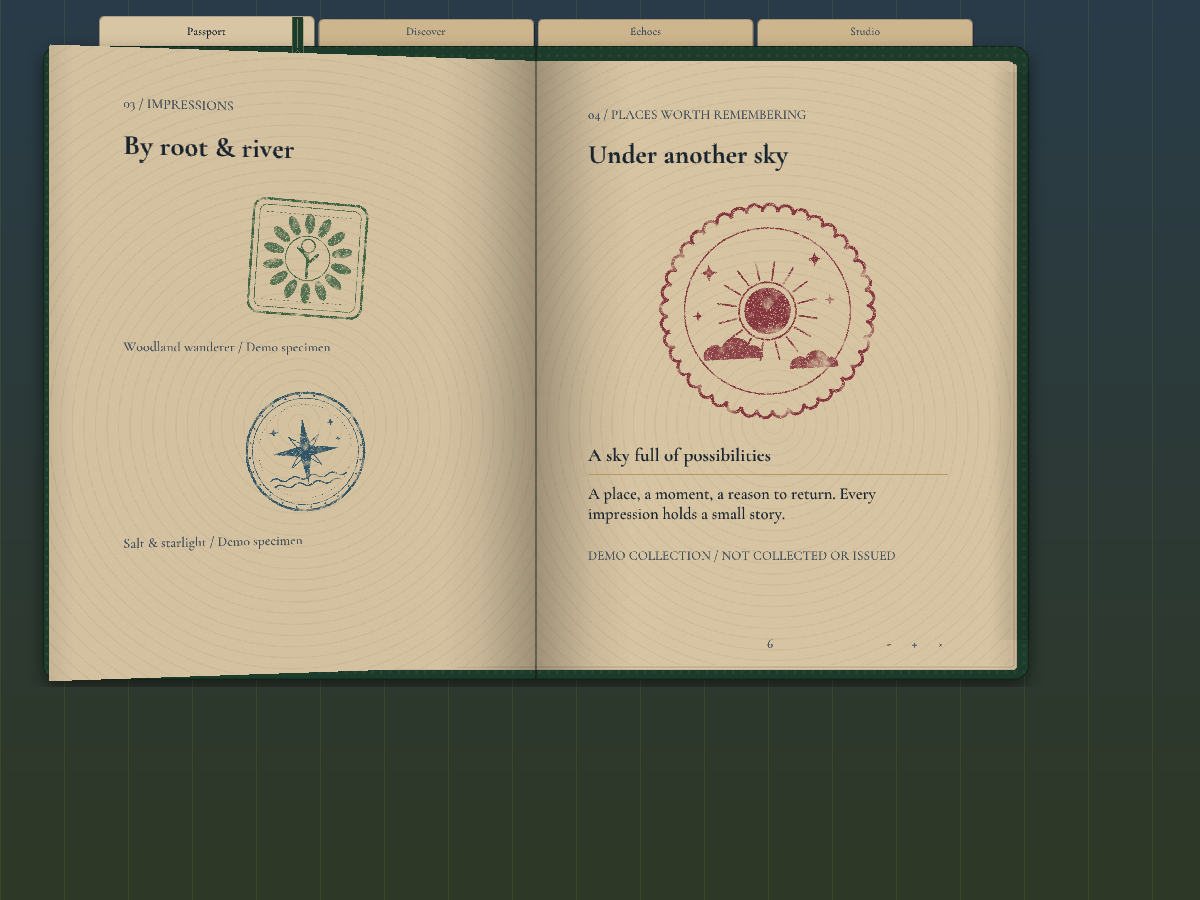
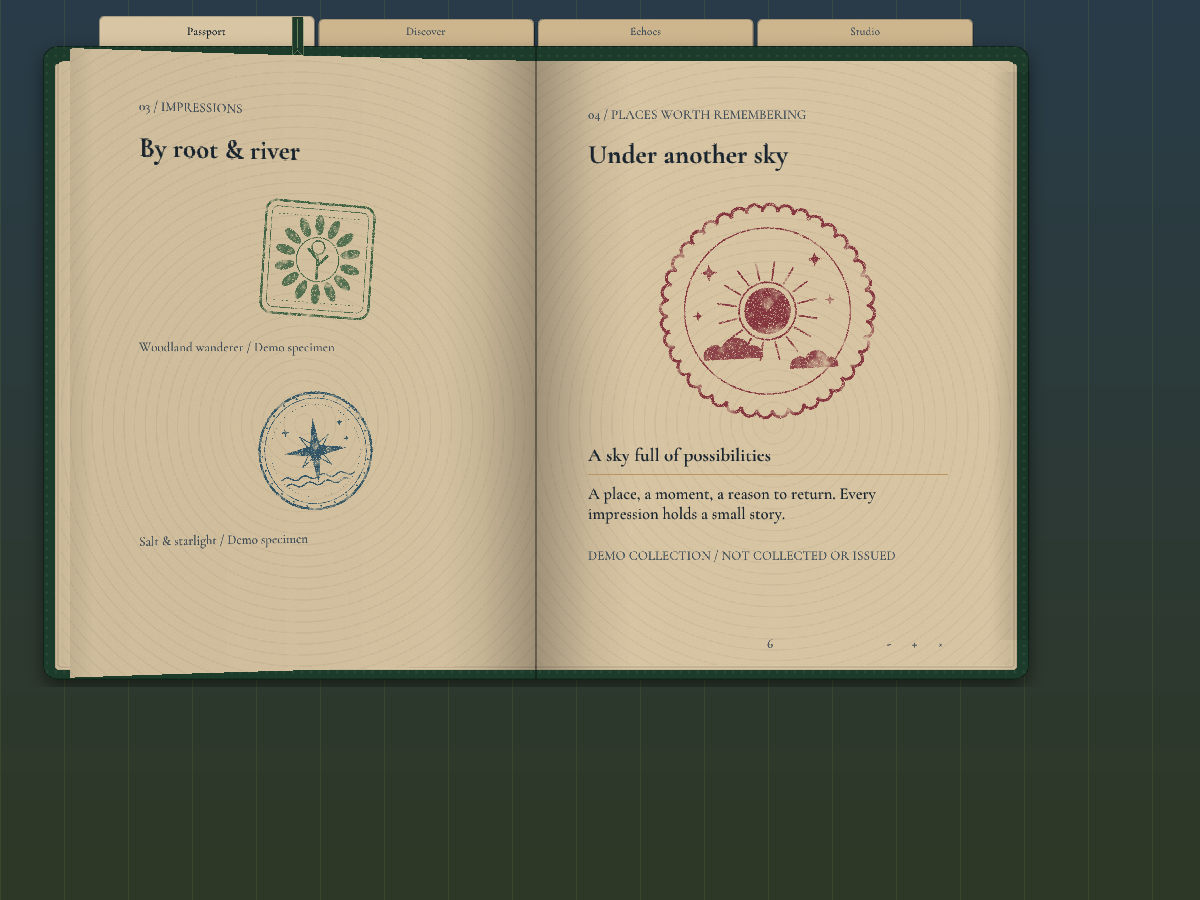
feat(ui): curl turning pages and keep their content in place
A turning page now bends into an arc as it turns, its outer edge trailing the motion, with light varying across the curve. Large page art and rules are drawn in strips while turning so they bend with the paper. The turning page now lays out with the same scrollbar reservation as a resting page, so its content no longer shifts when a turn starts or lands.

diff --git a/src/Wanderveil/UI/BookShell.cs b/src/Wanderveil/UI/BookShell.cs
@@ -186,6 +186,8 @@ internal sealed class BookShell(IBookAssets assets, PassportPreview profile, IRe
         {
             var first = turn.Base;
             var angle = MathF.PI * BookShellMotion.Ease(turn.Progress);
+            // Paper curls as it turns: its outer edge trails the motion, most while it stands upright.
+            var bend = -0.9f * MathF.Sin(angle) * (turn.Forward ? 1f : -1f);
             var book = layout.Book;
             // A leaf is the paper alone (plate y 66-958); the board stays where it is.
             var faceHeight = book.Size.Y * 892f / 1024f;
@@ -199,7 +201,7 @@ internal sealed class BookShell(IBookAssets assets, PassportPreview profile, IRe
                 var hinge = new Vector2(book.Position.X + book.Size.X / 2, center);
                 var back = angle > MathF.PI / 2;
                 var face = new UiRect(new Vector2(back ? hinge.X - leafWidth : hinge.X, center - faceHeight / 2), new Vector2(leafWidth, faceHeight));
-                var leaf = new LeafProjection(face, hinge, leafWidth, faceHeight, angle, 1);
+                var leaf = new LeafProjection(face, hinge, leafWidth, faceHeight, angle, 1, bend, 6.5f);
                 TurningLeaf(back ? first + 2 : first + 1, back ? layout.LeftPage : layout.RightPage, face, leaf, back, 0.5f, back ? 66f / 1536f : 1470f / 1536f, 1f, true, !back);
             }
             else
@@ -211,7 +213,7 @@ internal sealed class BookShell(IBookAssets assets, PassportPreview profile, IRe
                 var leafWidth = book.Size.X * 702f / 768f;
                 var hinge = new Vector2(book.Position.X + (even ? book.Size.X * 66f / 768f : 0f), center);
                 var face = new UiRect(new Vector2(hinge.X, center - faceHeight / 2), new Vector2(leafWidth, faceHeight));
-                var leaf = new LeafProjection(face, hinge, leafWidth, faceHeight, angle, 1);
+                var leaf = new LeafProjection(face, hinge, leafWidth, faceHeight, angle, 1, bend, 6.5f);
                 var fade = angle <= MathF.PI / 2 ? 1f : MathF.Max(0f, 1f - (angle - MathF.PI / 2) / (MathF.PI / 3));
                 var region = BookShellLayout.Create(bounds, context, first).LeftPage;
                 TurningLeaf(first, region, face, leaf, false, even ? 66f / 1536f : 0.5f, even ? 0.5f : 1470f / 1536f, fade, angle <= MathF.PI / 2, false);
@@ -221,7 +223,9 @@ internal sealed class BookShell(IBookAssets assets, PassportPreview profile, IRe
         void TurningLeaf(int index, UiRect region, UiRect face, LeafProjection leaf, bool back, float uvHinge, float uvOuter, float alpha, bool content, bool rightSide)
         {
             ImGui.SetCursorScreenPos(region.Position);
+            // The same padding and scrollbar reservation as a resting page, so content lays out identically.
             ImGui.PushStyleVar(ImGuiStyleVar.WindowPadding, Vector2.Zero);
+            ImGui.PushStyleVar(ImGuiStyleVar.ScrollbarSize, 5 * context.Scale);
             try
             {
                 var visible = ImGui.BeginChild("Turning leaf", region.Size, false, ImGuiWindowFlags.NoInputs | ImGuiWindowFlags.NoBackground | ImGuiWindowFlags.NoScrollbar | ImGuiWindowFlags.NoScrollWithMouse | ImGuiWindowFlags.NoSavedSettings);
@@ -236,14 +240,19 @@ internal sealed class BookShell(IBookAssets assets, PassportPreview profile, IRe
                     if (leaf.Angle <= MathF.PI / 2) list.AddRectFilledMultiColor(new Vector2(leaf.Hinge.X, face.Position.Y), new Vector2(leaf.Hinge.X + reach, face.Max.Y), dark, clear, clear, dark);
                     else list.AddRectFilledMultiColor(new Vector2(leaf.Hinge.X - reach, face.Position.Y), new Vector2(leaf.Hinge.X, face.Max.Y), clear, dark, dark, clear);
                     if (assets.TryGet(BookAsset.Open, out var open, layout.Book.Size.X))
-                        leaf.Leaf(list, open.Texture, new Vector2(uvHinge, 66f / 1024f), new Vector2(uvOuter, 958f / 1024f), LeafProjection.Tint(Vector4.One with { W = alpha }, leaf.Light));
+                        leaf.Leaf(list, open.Texture, new Vector2(uvHinge, 66f / 1024f), new Vector2(uvOuter, 958f / 1024f), Vector4.One with { W = alpha });
                     var start = list.VtxBuffer.Size;
                     if (content && index < documentPages.Count)
                     {
                         var entry = documentPages[index];
-                        if (entry.Kind == PassportPageKind.NationBanner) Banner(index, rightSide);
+                        BookSurface.Strips = 16;
+                        try { if (entry.Kind == PassportPageKind.NationBanner) Banner(index, rightSide); }
+                        finally { BookSurface.Strips = 1; }
                         ImGui.SetCursorScreenPos(region.Position);
-                        Contents(entry, Printed(Fit(entry)));
+                        // Large art is drawn in strips so it bends with the curled paper.
+                        BookSurface.Strips = 16;
+                        try { Contents(entry, Printed(Fit(entry))); }
+                        finally { BookSurface.Strips = 1; }
                     }
                     leaf.Warp(list, start, face, back, alpha);
                     var viewport = ImGui.GetMainViewport();
@@ -251,7 +260,7 @@ internal sealed class BookShell(IBookAssets assets, PassportPreview profile, IRe
                 }
                 finally { ImGui.EndChild(); }
             }
-            finally { ImGui.PopStyleVar(); }
+            finally { ImGui.PopStyleVar(2); }
         }
 
         void Folio(int index, bool right)
@@ -401,7 +410,7 @@ internal sealed class BookShell(IBookAssets assets, PassportPreview profile, IRe
                 // The cover's inside is the first left page; it lands exactly where the open spread draws it.
                 var pageHeight = moved.Size.Y * 936f / 1024f;
                 var leaf = new LeafProjection(new UiRect(new Vector2(hinge.X, hinge.Y - pageHeight / 2), new Vector2(leafWidth, pageHeight)), hinge, leafWidth, pageHeight, angle, 1);
-                leaf.Leaf(list, open.Texture, new Vector2(768f / 1536f, 44f / 1024f), new Vector2(40f / 1536f, 980f / 1024f), LeafProjection.Tint(Vector4.One, leaf.Light));
+                leaf.Leaf(list, open.Texture, new Vector2(768f / 1536f, 44f / 1024f), new Vector2(40f / 1536f, 980f / 1024f), Vector4.One);
             }
             else
             {

diff --git a/src/Wanderveil/UI/Components/LeafProjection.cs b/src/Wanderveil/UI/Components/LeafProjection.cs
@@ -5,24 +5,40 @@ using Wanderveil.UI.Primitives;
 
 namespace Wanderveil.UI.Components;
 
-// A flat leaf (the cover, or a page) rotating about a vertical hinge, drawn with perspective.
+// A leaf (the cover, or a page) rotating about a vertical hinge, drawn with perspective.
 // Source is the leaf's flat rectangle; its hinge-side edge stays on Hinge. Angle 0 lies flat on the
 // Direction side (+1: extends right of the hinge); pi lies flat on the other side, showing its back.
+// Bend curls a paper leaf: the surface direction changes by Bend radians from hinge to outer edge
+// (negative lags behind a turn that increases the angle). A stiff cover uses 0.
+// Depth is the camera distance in leaf heights; a curled page needs more so its bulge does not balloon.
 // Everything is drawn as textured quads, so artwork and lettering turn together.
-internal readonly record struct LeafProjection(UiRect Source, Vector2 Hinge, float Width, float Height, float Angle, int Direction)
+internal readonly record struct LeafProjection(UiRect Source, Vector2 Hinge, float Width, float Height, float Angle, int Direction, float Bend = 0f, float Depth = 3.6f)
 {
     internal bool ShowsBack => Angle > MathF.PI / 2;
 
     // Light falls off as the leaf turns edge-on, on either face.
-    internal float Light => 0.58f + 0.42f * MathF.Abs(MathF.Cos(Angle));
+    internal float Light => LightAt(0.5f);
+
+    // On a curled leaf each part faces the light differently.
+    internal float LightAt(float u) => 0.58f + 0.42f * MathF.Abs(MathF.Cos(Angle + Bend * u));
 
     // u: 0 at the hinge to 1 at the outer edge; v: 0 top to 1 bottom.
     internal Vector2 Project(float u, float v)
     {
         // Camera distance in leaf heights: far enough that the lifted leaf grows only a little.
-        var depth = Height * 3.6f;
-        var x = u * Width * MathF.Cos(Angle);
-        var z = u * Width * MathF.Sin(Angle);
+        var depth = Height * Depth;
+        float x, z;
+        if (MathF.Abs(Bend) < 1e-4f)
+        {
+            x = u * Width * MathF.Cos(Angle);
+            z = u * Width * MathF.Sin(Angle);
+        }
+        else
+        {
+            // The surface direction turns linearly along the leaf, so the leaf is a circular arc.
+            x = Width * (MathF.Sin(Angle + Bend * u) - MathF.Sin(Angle)) / Bend;
+            z = Width * (MathF.Cos(Angle) - MathF.Cos(Angle + Bend * u)) / Bend;
+        }
         var scale = depth / MathF.Max(depth * 0.2f, depth - z);
         return new Vector2(Hinge.X + Direction * x * scale, Hinge.Y + (v - 0.5f) * Height * scale);
     }
@@ -37,7 +53,7 @@ internal readonly record struct LeafProjection(UiRect Source, Vector2 Hinge, flo
 
     // Draws texture region uvHinge..uvOuter across the whole leaf in vertical strips (affine quads
     // bend perspective, so strips keep the distortion invisible).
-    internal void Leaf(ImDrawListPtr list, ImTextureID texture, Vector2 uvHinge, Vector2 uvOuter, uint color, int strips = 16)
+    internal void Leaf(ImDrawListPtr list, ImTextureID texture, Vector2 uvHinge, Vector2 uvOuter, Vector4 color, int strips = 24)
     {
         for (var index = 0; index < strips; index++)
         {
@@ -46,7 +62,7 @@ internal readonly record struct LeafProjection(UiRect Source, Vector2 Hinge, flo
             var x0 = uvHinge.X + (uvOuter.X - uvHinge.X) * u0;
             var x1 = uvHinge.X + (uvOuter.X - uvHinge.X) * u1;
             list.AddImageQuad(texture, Project(u0, 0), Project(u1, 0), Project(u1, 1), Project(u0, 1),
-                new Vector2(x0, uvHinge.Y), new Vector2(x1, uvHinge.Y), new Vector2(x1, uvOuter.Y), new Vector2(x0, uvOuter.Y), color);
+                new Vector2(x0, uvHinge.Y), new Vector2(x1, uvHinge.Y), new Vector2(x1, uvOuter.Y), new Vector2(x0, uvOuter.Y), Tint(color, LightAt((u0 + u1) / 2)));
         }
     }
 
@@ -99,7 +115,7 @@ internal readonly record struct LeafProjection(UiRect Source, Vector2 Hinge, flo
             ref var vertex = ref vertices.Ref(index);
             var u = back ? (flat.Max.X - vertex.Pos.X) / flat.Size.X : (vertex.Pos.X - flat.Position.X) / flat.Size.X;
             vertex.Pos = Project(u, (vertex.Pos.Y - flat.Position.Y) / flat.Size.Y);
-            vertex.Col = Shade(vertex.Col, Light, alpha);
+            vertex.Col = Shade(vertex.Col, LightAt(Math.Clamp(u, 0f, 1f)), alpha);
         }
     }
 

diff --git a/src/Wanderveil/UI/Components/BookSurface.cs b/src/Wanderveil/UI/Components/BookSurface.cs
@@ -12,6 +12,38 @@ internal static class BookSurface
 {
     internal static float ContentWidth(float width, bool spread) => width * (spread ? 0.35f : 0.70f);
 
+    // While a page turns, large page art is drawn in this many vertical strips so it bends with the
+    // curled leaf (text glyphs are already small). Set only around a turning leaf's content; UI thread.
+    internal static int Strips { get; set; } = 1;
+
+    internal static void Image(ImDrawListPtr list, ImTextureID texture, Vector2 min, Vector2 max, Vector2? uv0 = null, Vector2? uv1 = null)
+    {
+        var a = uv0 ?? Vector2.Zero;
+        var b = uv1 ?? Vector2.One;
+        if (Strips <= 1) { list.AddImage(texture, min, max, a, b); return; }
+        for (var index = 0; index < Strips; index++)
+        {
+            var t0 = index / (float)Strips;
+            var t1 = (index + 1) / (float)Strips;
+            list.AddImage(texture, new Vector2(min.X + (max.X - min.X) * t0, min.Y), new Vector2(min.X + (max.X - min.X) * t1, max.Y),
+                new Vector2(a.X + (b.X - a.X) * t0, a.Y), new Vector2(a.X + (b.X - a.X) * t1, b.Y));
+        }
+    }
+
+    internal static void Rect(ImDrawListPtr list, Vector2 min, Vector2 max, uint color)
+    {
+        if (Strips <= 1) { list.AddRectFilled(min, max, color); return; }
+        for (var index = 0; index < Strips; index++)
+            list.AddRectFilled(new Vector2(min.X + (max.X - min.X) * index / Strips, min.Y), new Vector2(min.X + (max.X - min.X) * (index + 1) / Strips, max.Y), color);
+    }
+
+    internal static void Line(ImDrawListPtr list, Vector2 from, Vector2 to, uint color, float thickness = 1f)
+    {
+        var segments = Math.Max(1, Strips);
+        for (var index = 0; index < segments; index++)
+            list.AddLine(Vector2.Lerp(from, to, index / (float)segments), Vector2.Lerp(from, to, (index + 1) / (float)segments), color, thickness);
+    }
+
     // The paper of one page in the open-book plate (pages at x 66-768 and 768-1470, y 66-958 of 1536 x 1024).
     internal static UiRect Paper(UiRect book, BookFace face, bool rightOfSpread = false)
     {
@@ -103,8 +135,8 @@ internal static class BookSurface
         var max = min + size;
         var drawList = ImGui.GetWindowDrawList();
         var mount = new Vector2(4f * context.Scale);
-        drawList.AddRectFilled(min - mount, max + mount, ImGui.GetColorU32(UiTheme.Paper));
-        drawList.AddImage(image.Texture, min, max);
+        Rect(drawList, min - mount, max + mount, ImGui.GetColorU32(UiTheme.Paper));
+        Image(drawList, image.Texture, min, max);
     }
 
     // The aspect-preserving placement Illustration draws, without drawing it.
@@ -120,7 +152,7 @@ internal static class BookSurface
         var aspect = image.Width / (float)image.Height;
         var size = new Vector2(MathF.Min(bounds.Size.X, bounds.Size.Y * aspect), MathF.Min(bounds.Size.Y, bounds.Size.X / aspect));
         var fitted = new UiRect(bounds.Position + (bounds.Size - size) / 2, size);
-        ImGui.GetWindowDrawList().AddImage(image.Texture, fitted.Position, fitted.Max);
+        Image(ImGui.GetWindowDrawList(), image.Texture, fitted.Position, fitted.Max);
         return fitted;
     }
 
@@ -133,7 +165,7 @@ internal static class BookSurface
         var aspect = (region.Y - region.X) * image.Width / image.Height;
         var size = new Vector2(MathF.Min(bounds.Size.X, bounds.Size.Y * aspect), MathF.Min(bounds.Size.Y, bounds.Size.X / aspect));
         var min = bounds.Position + ((bounds.Size - size) / 2f);
-        ImGui.GetWindowDrawList().AddImage(image.Texture, min, min + size,
+        Image(ImGui.GetWindowDrawList(), image.Texture, min, min + size,
             new Vector2(region.X, 0f), new Vector2(region.Y, 1f));
     }
 }

diff --git a/src/Wanderveil/Features/Passport/PassportDocumentView.cs b/src/Wanderveil/Features/Passport/PassportDocumentView.cs
@@ -28,7 +28,7 @@ internal sealed class PassportDocumentView(IBookAssets assets, PassportPreview p
         if (leaf is { } turning)
         {
             // Only the board turns; the plate's soft shadow margin stays behind.
-            if (hasCover) turning.Leaf(list, cover.Texture, new Vector2(42f / 1024f, 141f / 1536f), new Vector2(982f / 1024f, 1394f / 1536f), LeafProjection.Tint(Vector4.One, light));
+            if (hasCover) turning.Leaf(list, cover.Texture, new Vector2(42f / 1024f, 141f / 1536f), new Vector2(982f / 1024f, 1394f / 1536f), Vector4.One);
             else list.AddQuadFilled(turning.Project(0, 0), turning.Project(1, 0), turning.Project(1, 1), turning.Project(0, 1), LeafProjection.Tint(UiTheme.Edition, light));
         }
         else if (hasCover) list.AddImage(cover.Texture, window.Position, window.Max);
@@ -100,7 +100,7 @@ internal sealed class PassportDocumentView(IBookAssets assets, PassportPreview p
         var width = MathF.Min(paper.Size.X * 0.62f, height * image.Width / image.Height);
         height = width * image.Height / image.Width;
         var banner = new UiRect(new Vector2(paper.Position.X + (paper.Size.X - width) / 2, paper.Position.Y), new Vector2(width, height));
-        list.AddImage(image.Texture, banner.Position, banner.Max);
+        BookSurface.Image(list, image.Texture, banner.Position, banner.Max);
         // Proportions are in the banner's 200 x 460 design units.
         var unit = width / 200f;
         Lettering("01 / THE FOREST NATION", 34, 8, 2.5f, 0.85f);

diff --git a/src/Wanderveil/UI/Components/BookControl.cs b/src/Wanderveil/UI/Components/BookControl.cs
@@ -77,7 +77,7 @@ internal static class BookControl
             var ink = hovered ? UiTheme.Ink : UiTheme.Edition;
             UiTypography.Draw(list, bounds.Position + new Vector2(2, 2) * context.Scale, label, TextRole.Body, context, measured.X + 1, ink, false);
             var y = bounds.Position.Y + 2 * context.Scale + measured.Y + context.Scale;
-            list.AddLine(new Vector2(bounds.Position.X + 2 * context.Scale, y), new Vector2(bounds.Position.X + 2 * context.Scale + measured.X, y), ImGui.GetColorU32(ink with { W = hovered ? 0.9f : 0.45f }), context.Scale);
+            BookSurface.Line(list, new Vector2(bounds.Position.X + 2 * context.Scale, y), new Vector2(bounds.Position.X + 2 * context.Scale + measured.X, y), ImGui.GetColorU32(ink with { W = hovered ? 0.9f : 0.45f }), context.Scale);
             if (hovered) ImGui.SetMouseCursor(ImGuiMouseCursor.Hand);
             return pressed;
         }

diff --git a/src/Wanderveil/UI/Components/PageFlow.cs b/src/Wanderveil/UI/Components/PageFlow.cs
@@ -36,7 +36,7 @@ internal struct PageFlow(Vector2 origin, float width, UiContext context, bool is
         if (isDrawing)
         {
             var start = origin + new Vector2(0f, offset);
-            ImGui.GetWindowDrawList().AddLine(start, start + new Vector2(width, 0f), ImGui.GetColorU32(UiTheme.Gold));
+            BookSurface.Line(ImGui.GetWindowDrawList(), start, start + new Vector2(width, 0f), ImGui.GetColorU32(UiTheme.Gold));
         }
         offset += context.Scale;
         Gap();

diff --git a/src/Wanderveil/UI/BookShellTurn.cs b/src/Wanderveil/UI/BookShellTurn.cs
@@ -18,6 +18,8 @@ internal sealed class BookShellTurn
     internal int Base { get; private set; }
     internal int Step { get; private set; } = 2;
     internal float Progress { get; private set; }
+    // True while heading to the later reading position.
+    internal bool Forward => goal > 0.5f;
     // The page the reader ends on when this turn completes (or now, when idle).
     internal int Target => Active ? Base + (goal > 0.5f ? Step : 0) : target;
     private int target;

diff --git a/docs/passport-runtime.md b/docs/passport-runtime.md
@@ -42,22 +42,23 @@ The headless preview window is pinned at the top left rather than anchored at th
 
 ## Page turns (Milestone 4 experiment)
 
-Clicking a page side (or Page Up/Down) turns the page as a rigid paper leaf rotating about the spine in 0.5 s, with perspective, lighting, and a shadow on the paper it hangs over. The leaf carries its real page content: the front shows the page being turned, the back the page it lands as, including text, portrait, stamps, and the nation banner. The two pages that stay put remain live and readable throughout. On a single page, the page swings away to the left about its outer edge and fades, revealing the next page beneath it. Clicking the same way again lands the current turn and starts the next; clicking the other way reverses the turn from where the leaf is. Reduced motion turns instantly.
+Clicking a page side (or Page Up/Down) turns the page as a paper leaf rotating about the spine in 0.5 s. It curls as it goes: its outer edge trails the motion, most while it stands upright, so the page bows into an arc and lies flat again as it lands. Perspective, light that varies across the curve, and a shadow on the paper it hangs over complete it. The leaf carries its real page content: the front shows the page being turned, the back the page it lands as, including text, portrait, stamps, and the nation banner. The two pages that stay put remain live and readable throughout. On a single page, the page swings away to the left about its outer edge and fades, revealing the next page beneath it. Clicking the same way again lands the current turn and starts the next; clicking the other way reverses the turn from where the leaf is. Reduced motion turns instantly.
 
-How it works: ImGui draws child windows above their parent and cannot transform a child's contents, so the turning leaf gets its own child window, created after the static pages so it draws above them. Its paper is drawn as perspective strips; its page content is composed flat at the page's resting place exactly as it would be on the page, then every vertex it produced is moved through the same hinge projection (`LeafProjection.Warp`) and its clip rectangles are widened. No render-to-texture, renderer dependency, or GPU hook is involved.
+How it works: ImGui draws child windows above their parent and cannot transform a child's contents, so the turning leaf gets its own child window, created after the static pages so it draws above them. Its paper is drawn as perspective strips; its page content is composed flat at the page's resting place exactly as it would be on the page, then every vertex it produced is moved through the same curled hinge projection (`LeafProjection.Warp`) and its clip rectangles are widened. While on a turning leaf, large art (portrait, stamps, map, banner) and rules are drawn in 16 vertical strips (`BookSurface.Strips`) so they bend with the paper; glyphs are already small. The leaf's child window uses the same padding and scrollbar reservation as a resting page, so content wraps identically and does not shift as a turn starts or lands. No render-to-texture, renderer dependency, or GPU hook is involved.
 
-Measured in the headless checks: about 0.09 ms of CPU and 3,060 vertices to build a turning spread frame, against 0.03 ms and 1,544 for a still spread. GPU cost and frame pacing in game are not measured.
+Measured in the headless checks: about 0.12 ms of CPU and 3,272 vertices to build a turning spread frame, against 0.04 ms and 1,544 for a still spread. GPU cost and frame pacing in game are not measured.
 
 Limitations of this approach:
 
-- The leaf is rigid and flat: no curl or bend along the page. A curl would need the content warped along a curved surface; the per-vertex warp could do it for text, but large images are single quads that would not bend, so it needs finer tessellation first.
-- The warp is perspective-correct at each vertex but straight within each triangle. Text glyphs and paper strips are small enough that this is invisible; a large image drawn as one quad (a stamp) can show a faint kink when sharply foreshortened.
+- The curl is a single circular arc across the page's width; real paper also bends diagonally from a corner. That would need a 2D tessellation of the page rather than vertical strips.
+- The warp is perspective-correct at each vertex but straight within each triangle. Glyphs, paper strips, and stripped art are small enough that this is not visible at normal sizes.
 - Content on the leaf is not interactive while it moves, and it shows the page from its top: a scrolled page (only possible with enlarged host text) is drawn unscrolled during the turn.
 - While a leaf is in motion its geometry may draw a few pixels beyond the book's window, because perspective enlarges the lifted edge; nothing is clipped at the window edge.
 
 Recommendation: this ordinary-ImGui approach is good enough for the passport's page turns, so CrystalRenderer is not needed for them. Revisit a renderer only if curled pages or real lighting become a goal.
 
 - [Identity page lifting with its content](previews/passport/turn-lifting.png)
+- [Page curled while upright](previews/passport/turn-curl.png)
 - [Stamp page landing on the left](previews/passport/turn-landing.png)
 - [Single page swinging away](previews/passport/turn-single.png)
 
